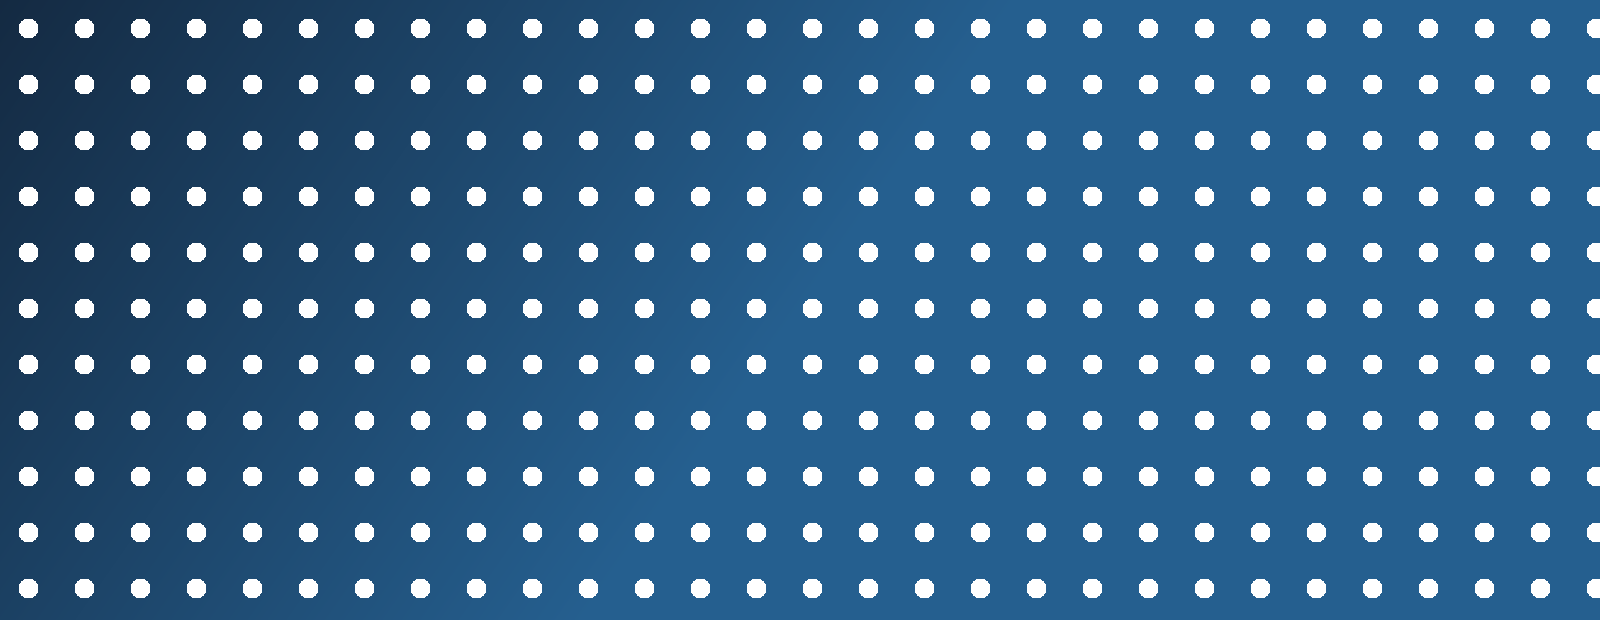
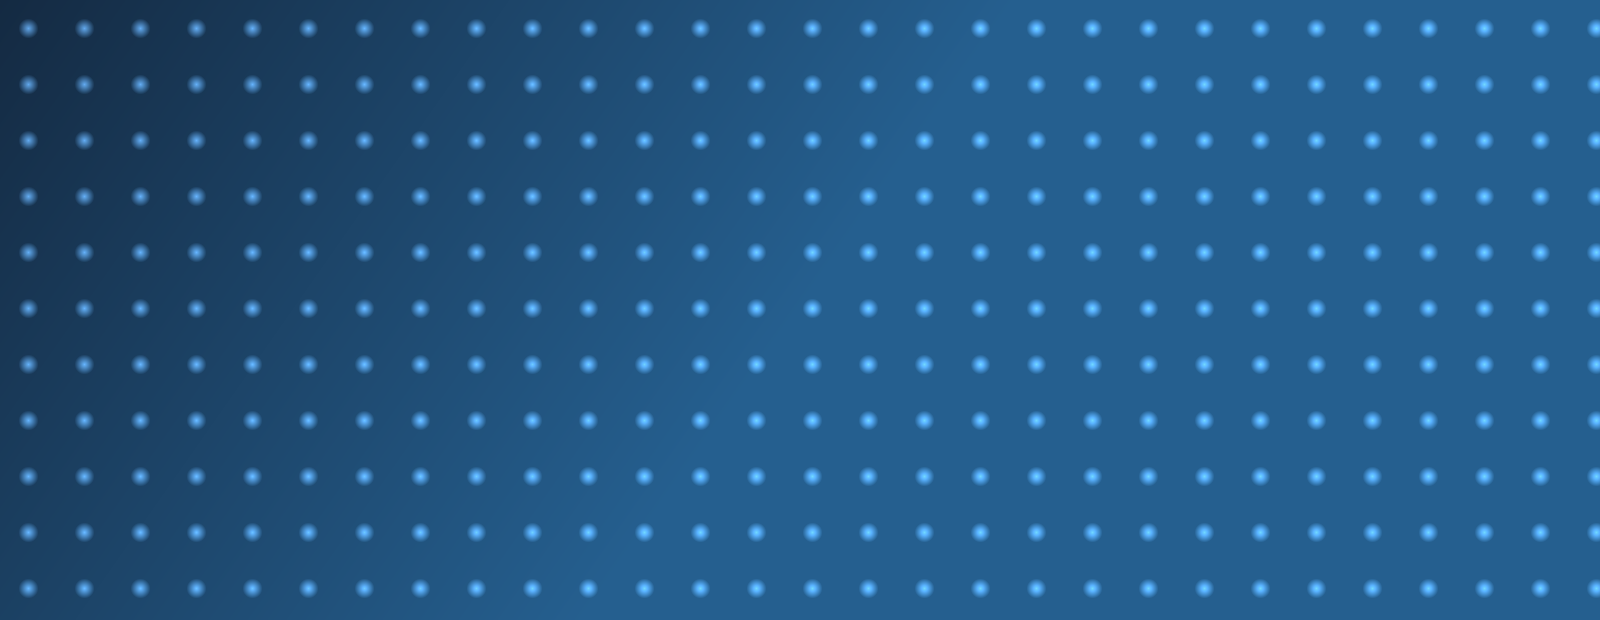
clamp the demo generator's add blend instead of saturating to white
max(255, min(255, …)) clamped every lightened pixel to 255; the
expression clamps to [0, 255], so the dot and ring overlays carry their
soft edges again. The three affected demo images regenerate.

diff --git a/scripts/gen-example-images.py b/scripts/gen-example-images.py
@@ -106,7 +106,7 @@ def overlay(base, layers):
             if m <= 0:
                 continue
             if mode == 'add':
-                col = tuple(max(255, min(255, c + int(colour[i] * m))) for i, c in enumerate(col))
+                col = tuple(min(255, max(0, c + int(colour[i] * m))) for i, c in enumerate(col))
             else:
                 col = lerp(col, colour, m)
         return col
@@ -179,7 +179,6 @@ def main():
     ap.add_argument('--out', default='exampleSite/assets/images')
     args = ap.parse_args()
     root = Path(args.out)
-    total = 0
     print(f'writing to {root}/')
 
     # Heroes. The theme's hero is a fixed-height band, about 3:1 on desktop,
